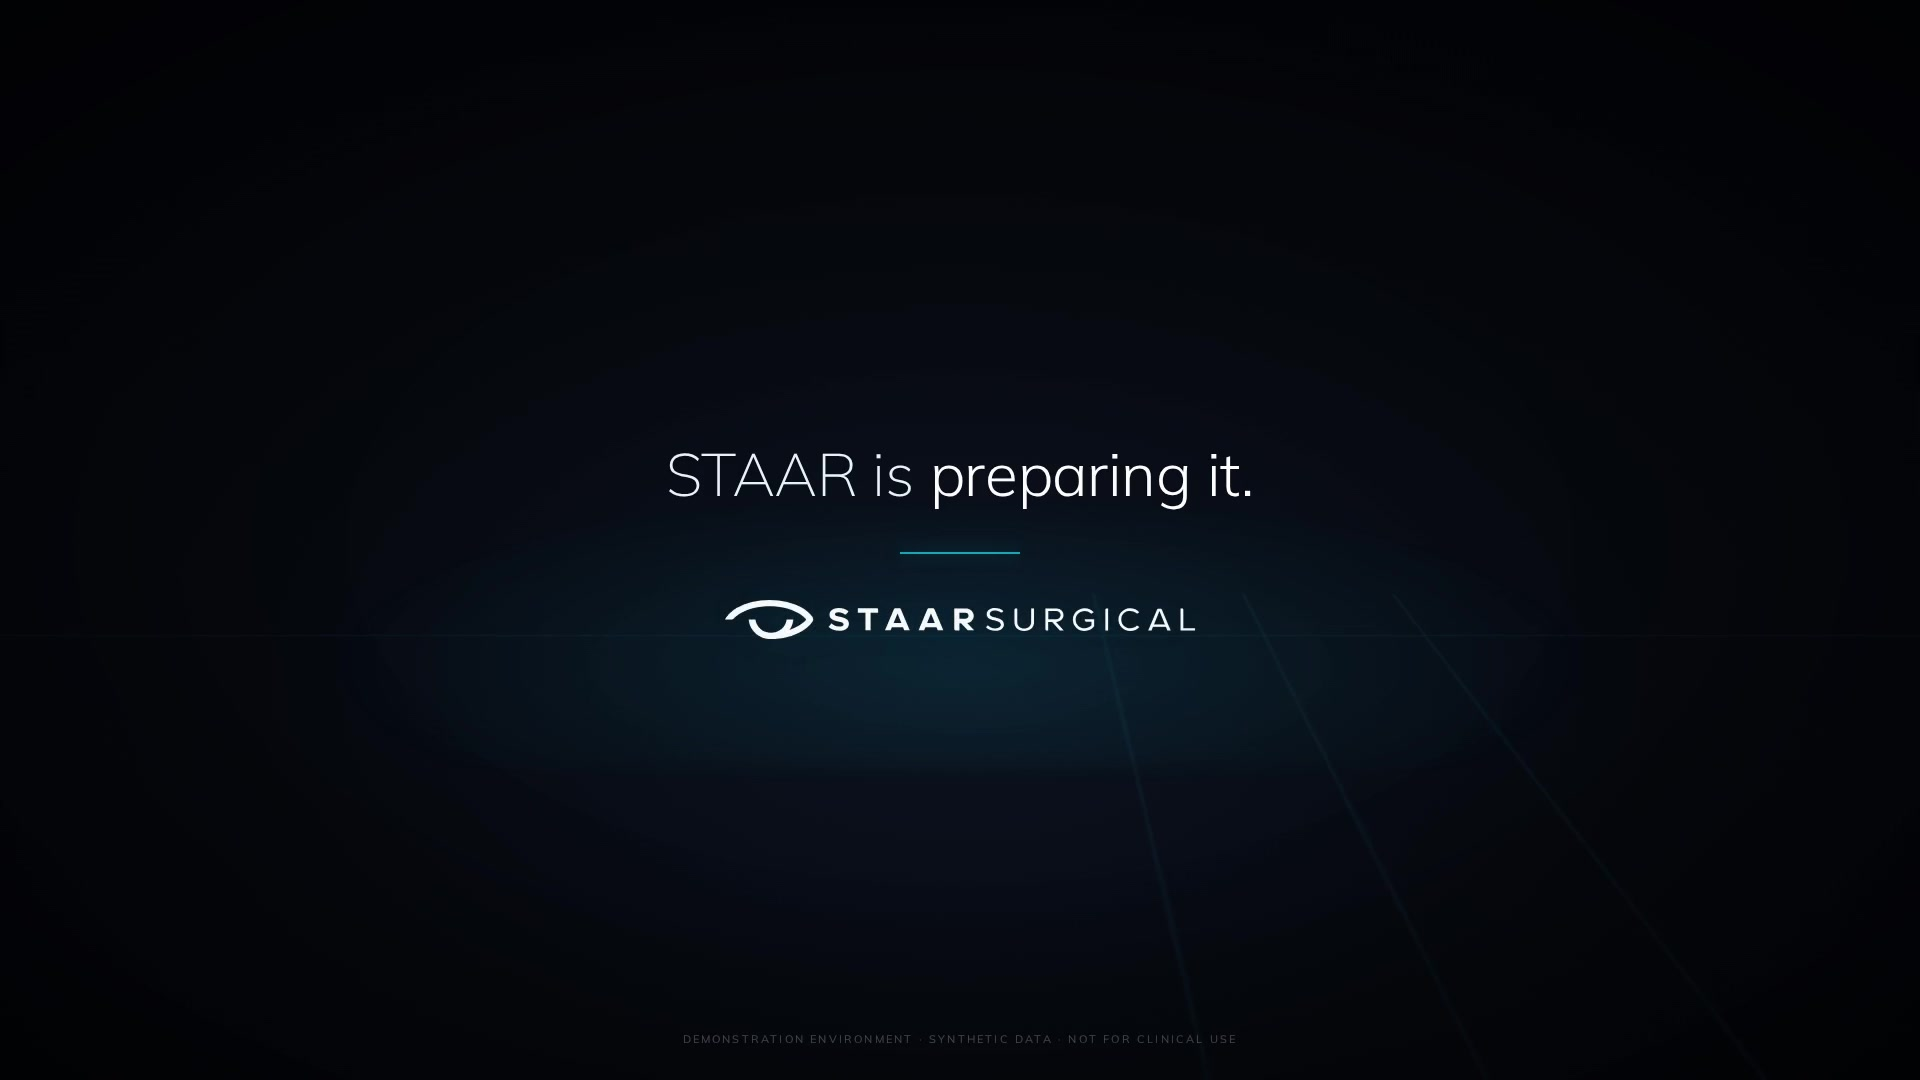
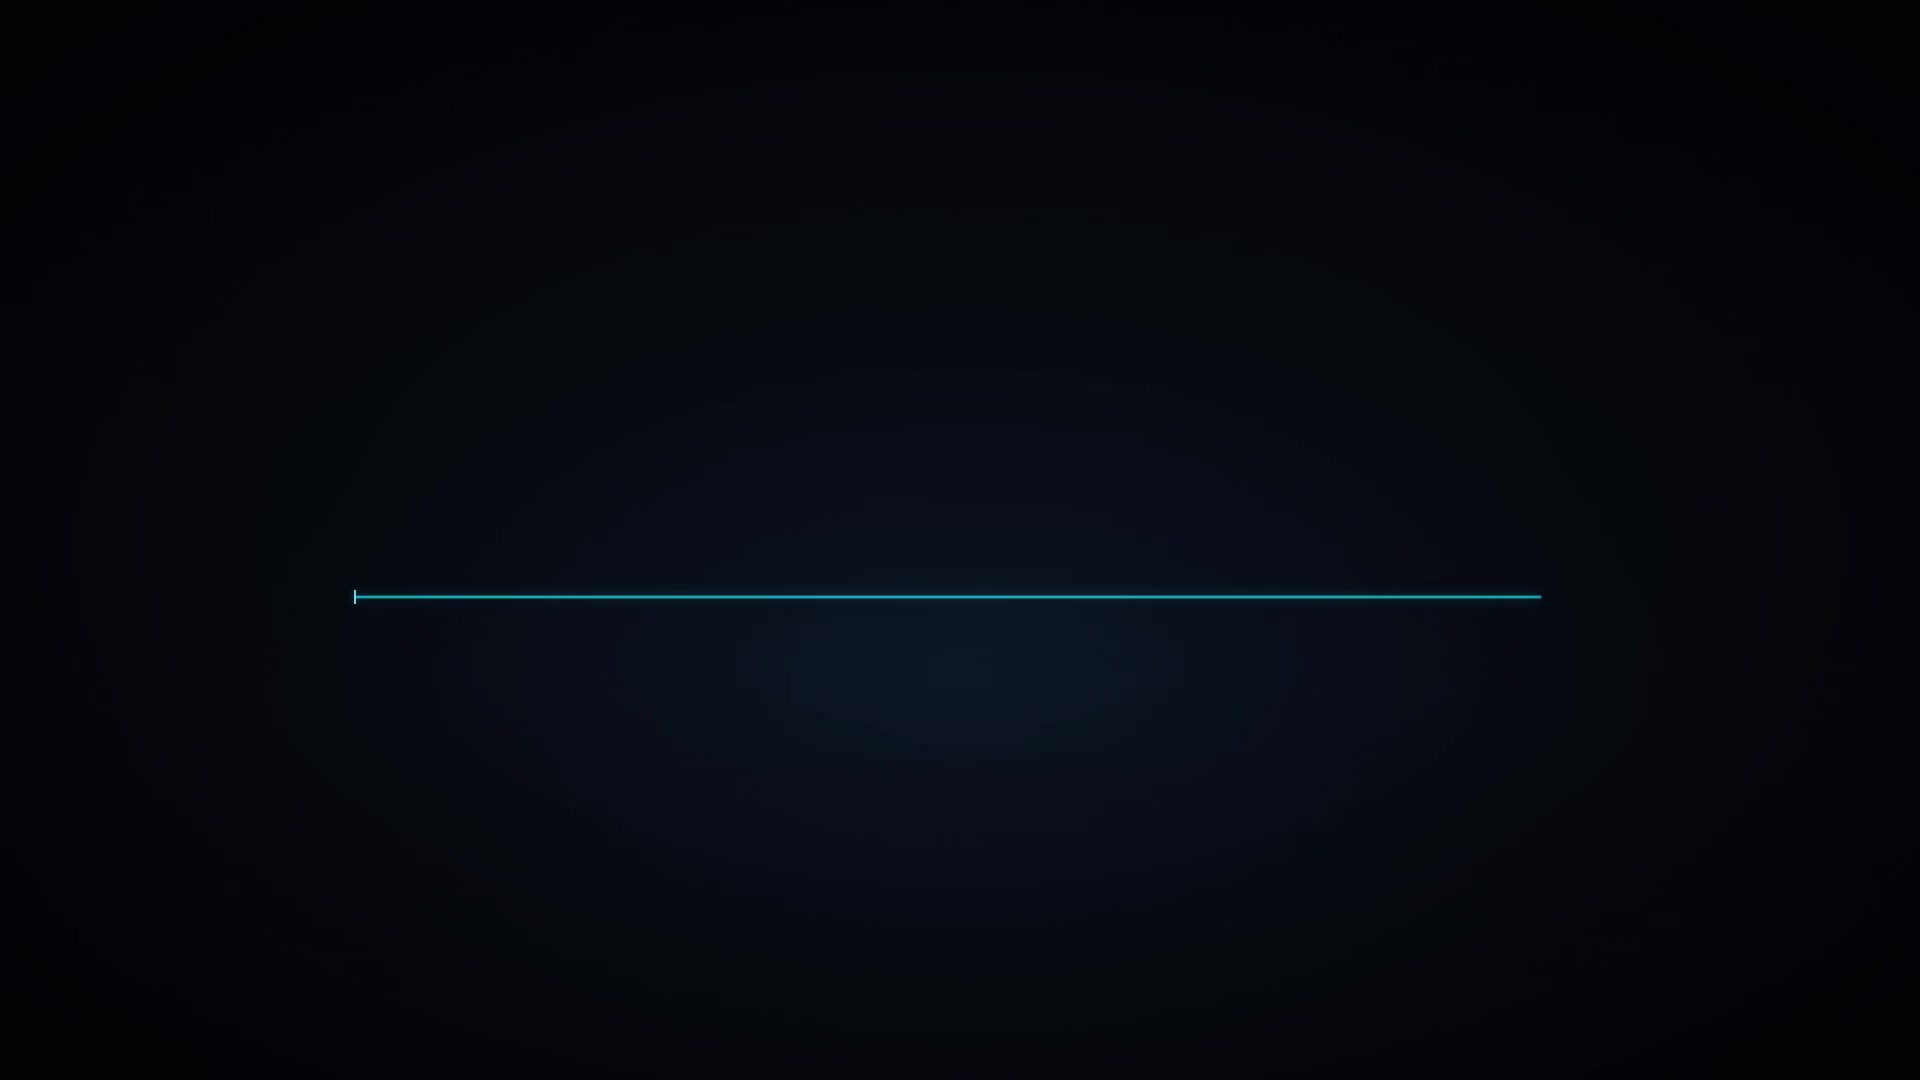
ecosystem hero film: near-black poster, quiet still for reduced motion, 30 fps source on slow connections
Claude-Session: https://claude.ai/code/session_01BD1uNvAv2ZzddicB8mmvkT

Changed region(s): [[0.1875, 0.55, 0.7812, 0.6111], [0.3438, 0.4278, 0.6562, 0.4583]]

diff --git a/ecosystem.html b/ecosystem.html
@@ -117,7 +117,7 @@
   .hero .hero-in.pre ~ .down{opacity:0}
   @media (prefers-reduced-motion:reduce){
     .hero .film-video{display:none}
-    .hero .film{background:#05070D url('/assets/film/film_poster.jpg') center/cover no-repeat}
+    .hero .film{background:#05070D url('/assets/film/film_still.jpg') center/cover no-repeat}
     .hero .hero-in.pre{opacity:1;transform:none;pointer-events:auto}
   }
 
@@ -761,7 +761,8 @@
   var reduce=window.matchMedia('(prefers-reduced-motion: reduce)').matches, revealed=false;
   function reveal(){ if(revealed) return; revealed=true; content.classList.remove('pre'); hero.classList.add('film-behind'); }
   if(reduce){ reveal(); return; }
-  if(window.matchMedia('(max-width:720px)').matches){
+  var c=navigator.connection; var slow=!!(c&&(c.saveData||(c.downlink&&c.downlink<3)));
+  if(slow||window.matchMedia('(max-width:720px)').matches){
     var mp4=v.querySelector('source[type="video/mp4"]'); var webm=v.querySelector('source[type="video/webm"]');
     if(webm) webm.remove(); if(mp4){ mp4.src='/assets/film/film_1080p30.mp4'; v.load(); }
   }
